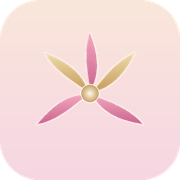
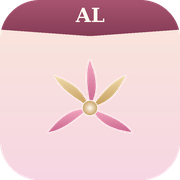
Add files via upload

Changed region(s): [[0.0, 0.0, 1.0, 0.75]]

diff --git a/sw.js b/sw.js
@@ -1,8 +1,8 @@
 // Service Worker mínimo — necesario para que el navegador permita instalar la app.
-// No hace caché agresivo de contenido para evitar que Ángela vea versiones desactualizadas
-// después de que se le hagan cambios al catálogo.
+// No hace caché agresivo de contenido para evitar que los visitantes vean versiones
+// desactualizadas después de que se le hagan cambios al catálogo.
 
-const CACHE_NAME = "estudio-lash-catalogo-v1";
+const CACHE_NAME = "estudio-lash-catalogo-v2";
 
 self.addEventListener("install", (event) => {
   self.skipWaiting();
@@ -17,8 +17,6 @@ self.addEventListener("activate", (event) => {
   self.clients.claim();
 });
 
-// Estrategia: siempre intenta ir a la red primero (para que los cambios se vean de inmediato).
-// Si no hay conexión, intenta servir desde caché como respaldo básico.
 self.addEventListener("fetch", (event) => {
   event.respondWith(
     fetch(event.request)